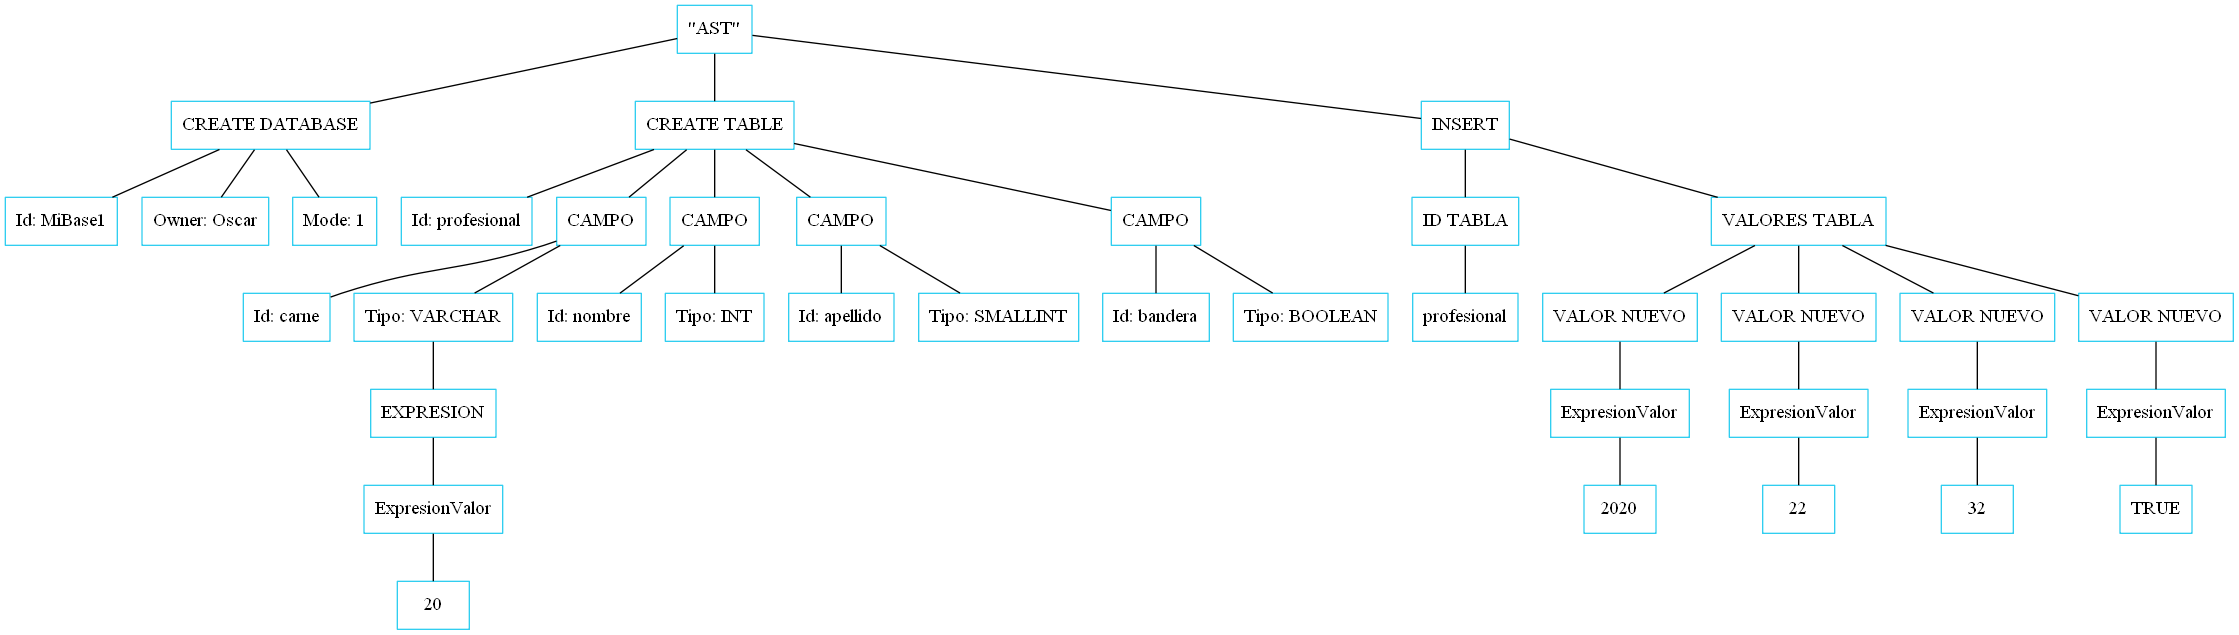
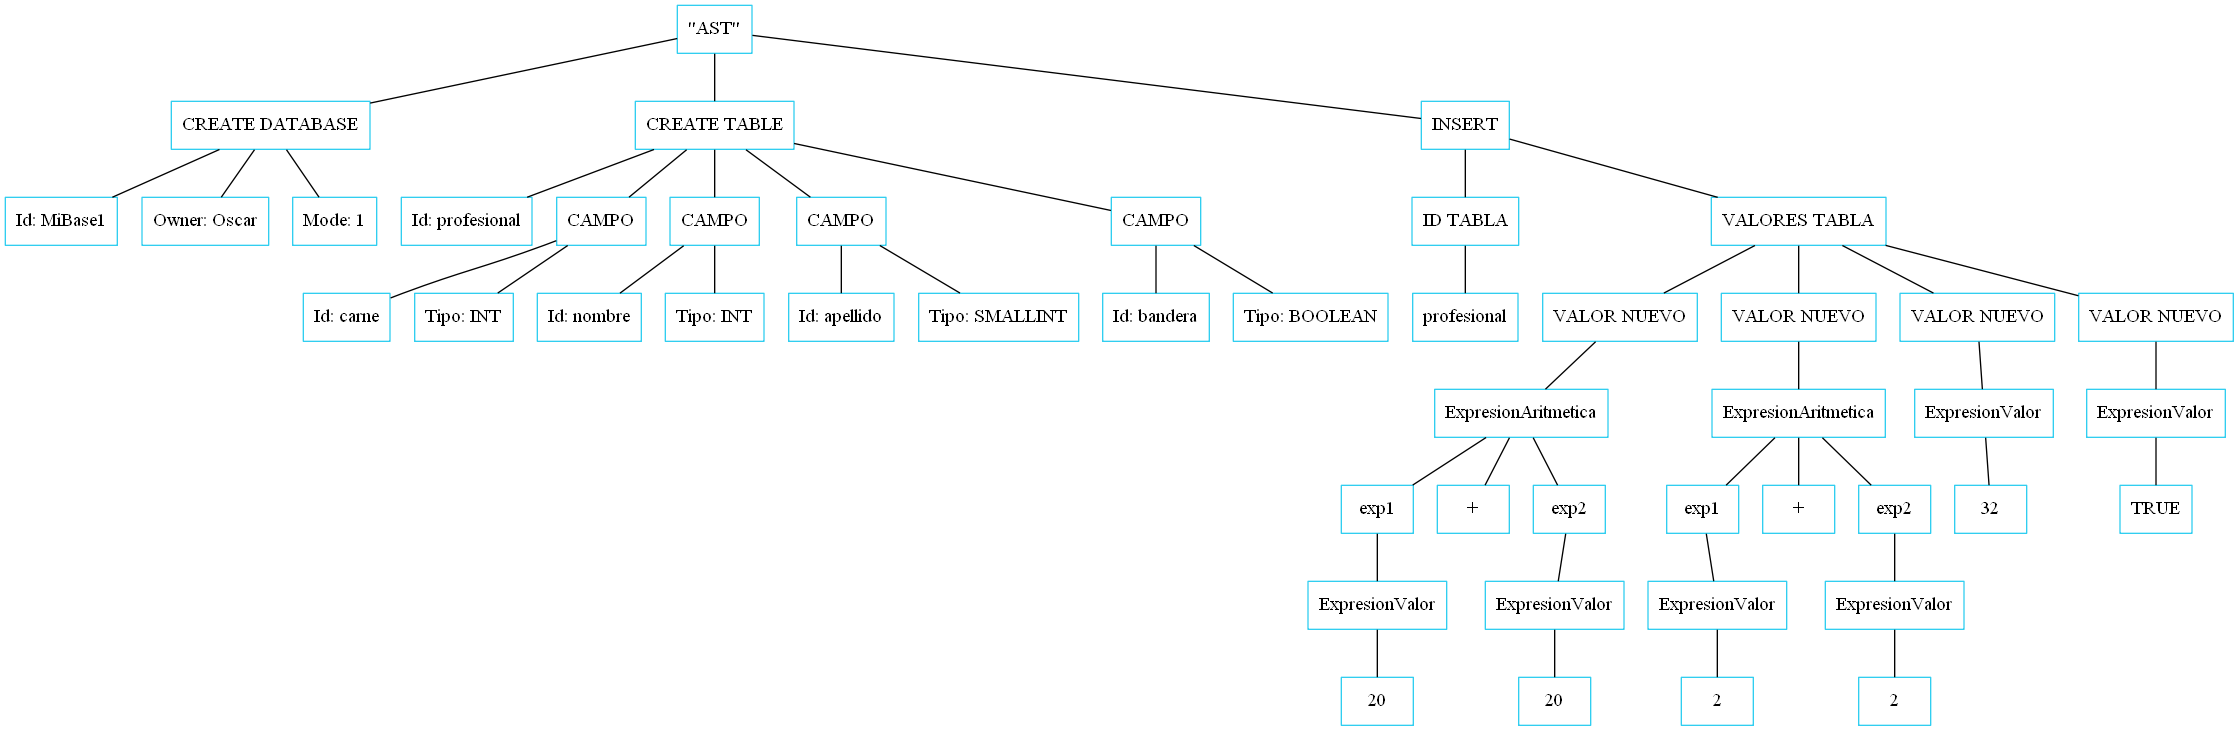
insert corregido

diff --git a/Instruccion.py b/Instruccion.py
@@ -1,5 +1,6 @@
 import ts as TS
 import jsonMode as Master
+import interprete as Inter
 from six import string_types
 from errores import *
 from expresiones import *
@@ -330,21 +331,25 @@ class Insert_Datos(Instruccion):
 
                         if isinstance(temporal[index].tipo, valorTipo):
 
-                            if isinstance(str(cc.val), string_types) and (str(temporal[index].tipo.valor) == 'VARCHAR' or str(temporal[index].tipo.valor) == 'CHARACTER' or str(temporal[index].tipo.valor) == 'CHAR'):
+                            resultado = Inter.procesar_expresion(cc, None)
+                            print(" Mi proceso: "+str(resultado))
+                            if isinstance(resultado, string_types) and (str(temporal[index].tipo.valor) == 'VARCHAR' or str(temporal[index].tipo.valor) == 'CHARACTER' or str(temporal[index].tipo.valor) == 'CHAR'):
                                 print(" >>> Parametros correctos, insertar, Validar la exprecion.")
                                 banderaInsert = True
                             else:
                                 print(" >>> Parametros incorrectos. ")
                                 banderaInsert = False
                         else:
-                            print(" Valor: >>>" + str(cc.val))
-                            if isinstance(str(cc.val), string_types) and ( str(temporal[index].tipo) == 'TEXT' or str(temporal[index].tipo) == 'INTEGER' or str(temporal[index].tipo) == 'INT' or str(temporal[index].tipo) == 'BIGINT' or str(temporal[index].tipo) == 'DECIMAL' or str(temporal[index].tipo) == 'REAL' or str(temporal[index].tipo) == 'FLOAT' or str(temporal[index].tipo) == 'MONEY'):
+                            resultado = Inter.procesar_expresion(cc, None)
+                            print(" Mi proceso: "+str(resultado))
+                            #print(" Valor: >>>" + str(cc.val))
+                            if isinstance(resultado, string_types) and  str(temporal[index].tipo) == 'TEXT':
                                 print(" >>> Parametros correctos, insertar")
                                 banderaInsert = True
                             elif str(temporal[index].tipo) == 'BOOLEAN'and (str(cc.val) == "TRUE" or str(cc.val) == "FALSE"):
                                 print(" >>> Parametros correctos, insertar")
                                 banderaInsert = True
-                            elif int(cc.val) > 0 and str(temporal[index].tipo) == 'SMALLINT':
+                            elif int(resultado) > 0 and (str(temporal[index].tipo) == 'SMALLINT' or str(temporal[index].tipo) == 'INTEGER' or str(temporal[index].tipo) == 'INT' or str(temporal[index].tipo) == 'BIGINT' or str(temporal[index].tipo) == 'DECIMAL' or str(temporal[index].tipo) == 'REAL' or str(temporal[index].tipo) == 'FLOAT' or str(temporal[index].tipo) == 'MONEY'):
                                 print(" >>> Parametros correctos, insertar")
                                 banderaInsert = True
                             else:
@@ -358,15 +363,16 @@ class Insert_Datos(Instruccion):
                     if banderaInsert is True:
                         listaTemp = []
                         for ccc in self.valores:
-                            d = DatoInsert(baseActual, r2, str(temporal[ix].id), ccc.val)
+                            resultado = Inter.procesar_expresion(ccc, None)
+                            d = DatoInsert(baseActual, r2, str(temporal[ix].id), resultado)
                             ts_global.agregarDato(d)
-                            listaTemp.append(ccc.val)
+                            listaTemp.append(resultado)
                             ix += 1
 
                         sr = Master.insert(baseActual, str(self.id_table[0].val), listaTemp)
                         print(baseActual + str(self.id_table[0].val) + str(len(listaTemp)))
                         if sr is 0:
-                            print(" >>>> Insert realizado con exito.")
+                            print(" >>>> Inserts realizado con exito.")
                         else:
                             print(" No se realizo la insercion." + str(sr))
                 else:
